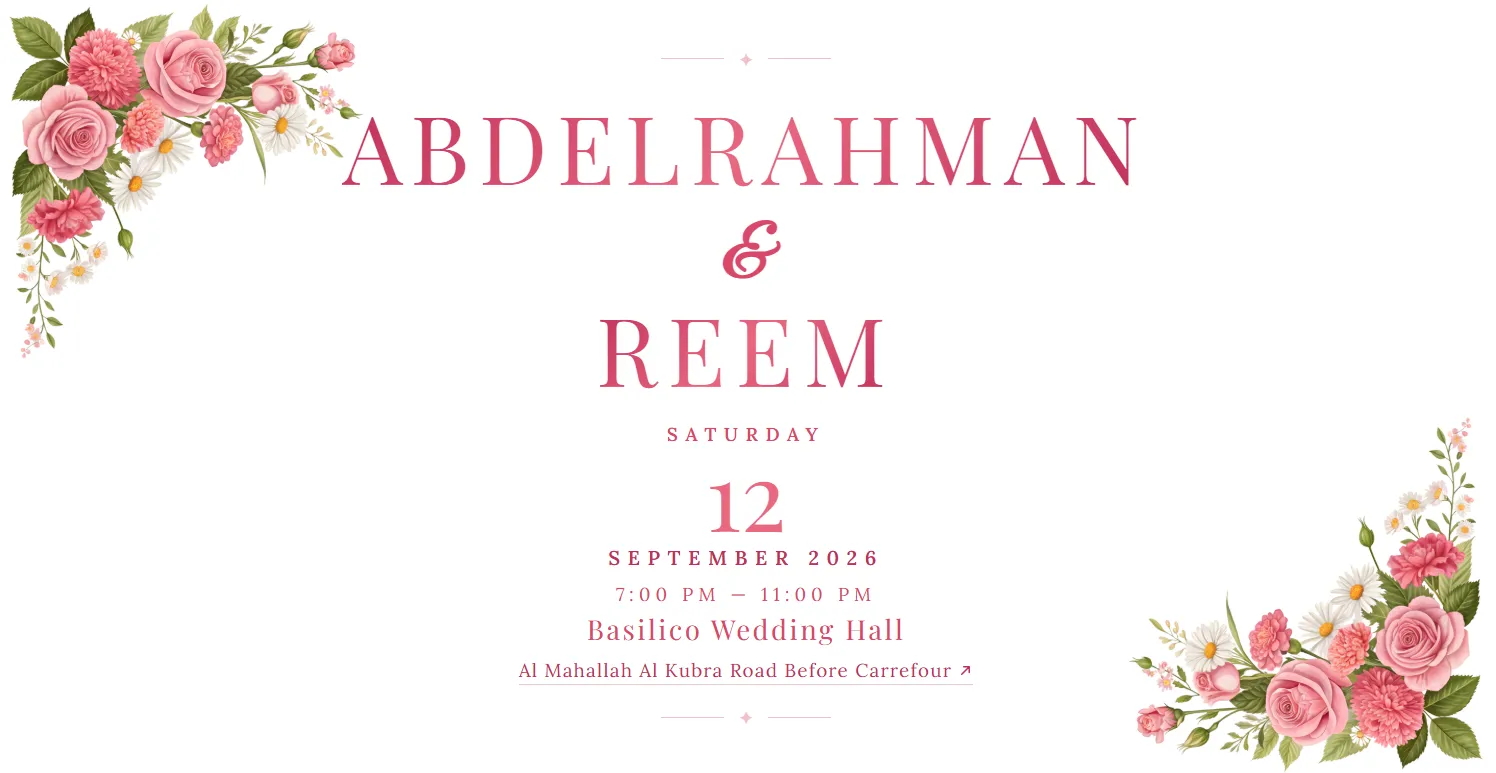
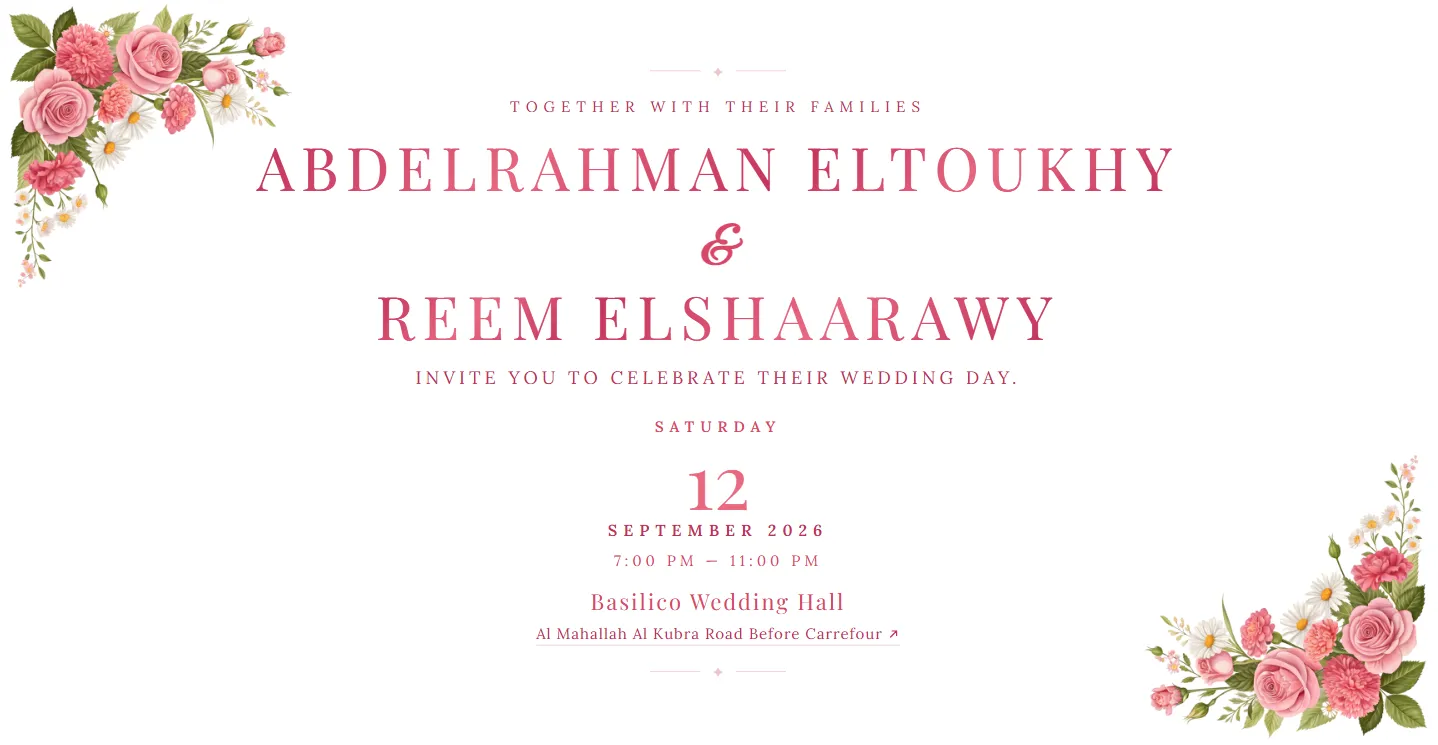
Updated names and preview

diff --git a/src/components/EnvelopeCover.tsx b/src/components/EnvelopeCover.tsx
@@ -1,16 +1,16 @@
-import { motion, AnimatePresence } from 'framer-motion'
-import { useState } from 'react'
-import './EnvelopeCover.css'
+import { motion, AnimatePresence } from 'framer-motion';
+import { useState } from 'react';
+import './EnvelopeCover.css';
 
 export default function EnvelopeCover() {
-  const [opening, setOpening] = useState(false)
-  const [done, setDone] = useState(false)
+  const [opening, setOpening] = useState(false);
+  const [done, setDone] = useState(false);
 
   const handleOpen = () => {
-    setOpening(true)
+    setOpening(true);
     // flap opens (0.8s) → envelope fades out (0.6s) → hero appears
-    setTimeout(() => setDone(true), 1600)
-  }
+    setTimeout(() => setDone(true), 1600);
+  };
 
   return (
     <div className="env-root">
@@ -29,9 +29,21 @@ export default function EnvelopeCover() {
                   key={i}
                   className="env-particle"
                   initial={{ opacity: 0 }}
-                  animate={{ opacity: [0, 0.5, 0], y: [0, -120 - Math.random() * 150], x: [0, (Math.random() - 0.5) * 160] }}
-                  transition={{ duration: 3 + Math.random() * 3, repeat: Infinity, delay: Math.random() * 4, ease: 'easeOut' }}
-                  style={{ left: `${Math.random() * 100}%`, bottom: `${10 + Math.random() * 25}%` }}
+                  animate={{
+                    opacity: [0, 0.5, 0],
+                    y: [0, -120 - Math.random() * 150],
+                    x: [0, (Math.random() - 0.5) * 160],
+                  }}
+                  transition={{
+                    duration: 3 + Math.random() * 3,
+                    repeat: Infinity,
+                    delay: Math.random() * 4,
+                    ease: 'easeOut',
+                  }}
+                  style={{
+                    left: `${Math.random() * 100}%`,
+                    bottom: `${10 + Math.random() * 25}%`,
+                  }}
                 />
               ))}
             </div>
@@ -46,7 +58,11 @@ export default function EnvelopeCover() {
                   <div className="env-back">
                     <motion.div
                       className="wax-seal"
-                      animate={opening ? { scale: 0, opacity: 0 } : { scale: 1, opacity: 1 }}
+                      animate={
+                        opening
+                          ? { scale: 0, opacity: 0 }
+                          : { scale: 1, opacity: 1 }
+                      }
                       transition={{ duration: 0.4, delay: 0.3 }}
                     >
                       <span>A & R</span>
@@ -56,7 +72,11 @@ export default function EnvelopeCover() {
                   <motion.div
                     className="env-flap"
                     animate={opening ? { rotateX: 180 } : { rotateX: 0 }}
-                    transition={{ duration: 0.8, ease: [0.22, 1, 0.36, 1], delay: 0.1 }}
+                    transition={{
+                      duration: 0.8,
+                      ease: [0.22, 1, 0.36, 1],
+                      delay: 0.1,
+                    }}
                   />
                 </div>
               </div>
@@ -67,7 +87,9 @@ export default function EnvelopeCover() {
                 transition={{ duration: 0.3 }}
               >
                 <p className="env-invite-text">
-                  We're getting married and we'd love<br />for you to be there to celebrate with us
+                  We're getting married and we'd love
+                  <br />
+                  for you to be there to celebrate with us
                 </p>
                 <motion.button
                   className="env-open-btn"
@@ -121,7 +143,9 @@ export default function EnvelopeCover() {
                 transition={{ duration: 1, delay: 0.5 }}
                 className="ornament-line"
               >
-                <span className="ornament-dash" /><span className="ornament-symbol">✦</span><span className="ornament-dash" />
+                <span className="ornament-dash" />
+                <span className="ornament-symbol">✦</span>
+                <span className="ornament-dash" />
               </motion.div>
 
               <motion.p
@@ -139,9 +163,9 @@ export default function EnvelopeCover() {
                 animate={{ opacity: 1, y: 0 }}
                 transition={{ duration: 1, delay: 0.9 }}
               >
-                <span>Abdelrahman</span>
+                <span className="inv-name"><span>Abdelrahman</span><span>Eltoukhy</span></span>
                 <span className="inv-amp">&</span>
-                <span>Reem</span>
+                <span className="inv-name"><span>Reem</span><span>Elshaarawy</span></span>
               </motion.h1>
 
               <motion.p
@@ -179,8 +203,21 @@ export default function EnvelopeCover() {
                   rel="noopener noreferrer"
                 >
                   Al Mahallah Al Kubra Road Before Carrefour
-                  <svg className="arrow-icon" width="12" height="12" viewBox="0 0 12 12" fill="none" xmlns="http://www.w3.org/2000/svg">
-                    <path d="M3 9L9 3M9 3H4.5M9 3V7.5" stroke="currentColor" strokeWidth="1.2" strokeLinecap="round" strokeLinejoin="round"/>
+                  <svg
+                    className="arrow-icon"
+                    width="12"
+                    height="12"
+                    viewBox="0 0 12 12"
+                    fill="none"
+                    xmlns="http://www.w3.org/2000/svg"
+                  >
+                    <path
+                      d="M3 9L9 3M9 3H4.5M9 3V7.5"
+                      stroke="currentColor"
+                      strokeWidth="1.2"
+                      strokeLinecap="round"
+                      strokeLinejoin="round"
+                    />
                   </svg>
                 </a>
               </motion.div>
@@ -191,12 +228,14 @@ export default function EnvelopeCover() {
                 transition={{ duration: 1, delay: 1.8 }}
                 className="ornament-line"
               >
-                <span className="ornament-dash" /><span className="ornament-symbol">✦</span><span className="ornament-dash" />
+                <span className="ornament-dash" />
+                <span className="ornament-symbol">✦</span>
+                <span className="ornament-dash" />
               </motion.div>
             </motion.div>
           </motion.div>
         )}
       </AnimatePresence>
     </div>
-  )
+  );
 }

diff --git a/src/components/EnvelopeCover.css b/src/components/EnvelopeCover.css
@@ -195,7 +195,7 @@
 
 .inv-names-hero span:not(.inv-amp) {
   font-family: 'Playfair Display', serif;
-  font-size: clamp(42px, 9vw, 76px);
+  font-size: clamp(42px, 9vw, 60px);
   font-weight: 400;
   letter-spacing: 8px;
   text-transform: uppercase;
@@ -212,9 +212,15 @@
   background-clip: text;
   line-height: 1.15;
 }
+.inv-name {
+  display: flex;
+  flex-direction: row;
+  align-items: center;
+  gap: 1.3rem;
+}
 .inv-amp {
   font-family: 'Great Vibes', cursive;
-  font-size: clamp(36px, 7vw, 60px);
+  font-size: 54px;
   color: #d84868;
   line-height: 1;
   margin: 22px 0 4px 0;
@@ -340,7 +346,12 @@
     width: 200px;
   }
   .inv-names-hero span:not(.inv-amp) {
-    font-size: clamp(36px, 8vw, 60px);
+    font-size: clamp(28px, 8vw, 52px);
+    letter-spacing: 3px;
+  }
+  .inv-name {
+    gap: 0;
+    flex-direction: column;
   }
   .inv-amp {
     font-size: clamp(30px, 6vw, 50px);
@@ -376,8 +387,12 @@
 
 @media (max-width: 390px) {
   .inv-names-hero span:not(.inv-amp) {
-    font-size: 32px;
-    letter-spacing: 5px;
+    font-size: 24px;
+    letter-spacing: 3px;
+  }
+  .inv-name {
+    gap: 0;
+    flex-direction: column;
   }
   .inv-amp {
     font-size: 30px;
@@ -391,7 +406,7 @@
     letter-spacing: 3px;
   }
   .badge-num {
-    font-size: 60px;
+    font-size: clamp(34px, 9vw, 68px);
   }
   .badge-day {
     font-size: 13px;
